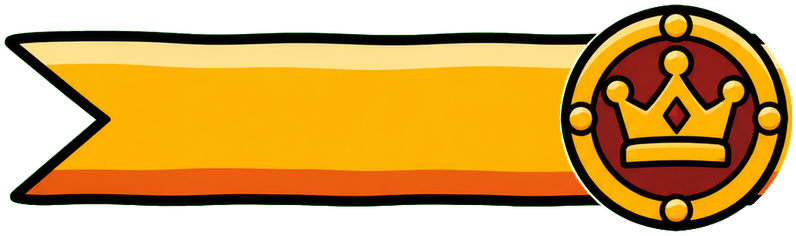
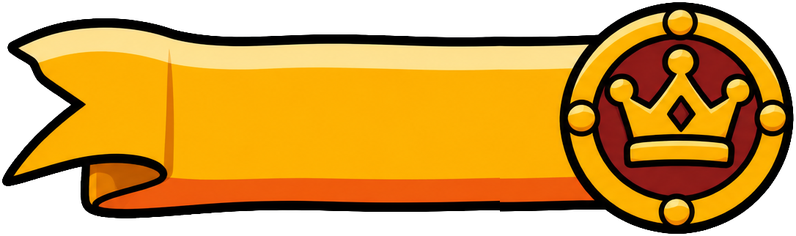
Porta EVENTI: il nastro con la piega di WB-061 (scelta di Sergio)
Claude-Session: https://claude.ai/code/session_01XmXLjiNihwB2y1ZDWEmFHY

Changed region(s): [[0.0, 0.0, 1.0, 1.0]]

diff --git a/tools/grafica/fucina.py b/tools/grafica/fucina.py
@@ -311,7 +311,9 @@ MENU_INTERI = [
     # la home: le porte (WB-046, a destra lo scudo verso il bordo), GIOCA, pedana e zainetto
     ("porta_campagna", "porta_campagna", 236, "WB-046"),
     ("porta_allenamento", "porta_allenamento", 226, "WB-046"),
-    ("porta_eventi", "porta_eventi_dx", 236, "WB-046"),
+    # lo striscione EVENTI: il nastro con la piega di WB-061 (Sergio, 15 nov; fra tre
+    # idee), accorciato nel mezzo liscio per avere l'ingombro di quello di WB-046
+    ("porta_eventi", "porta_eventi_piega", 236, "WB-061"),
     ("porta_armeria", "porta_armeria_dx", 226, "WB-046"),
     ("gioca_sigillo", "gioca_sigillo", 166, "WB-046"),
     ("pedana", "pedana_griglia_1", 266, "WB-050"),
@@ -351,7 +353,7 @@ MENU_INTERI = [
 SPAZI_MISURATI = {
     "porta_campagna": (240, 50, 189, 51),
     "porta_allenamento": (225, 44, 166, 37),
-    "porta_eventi": (110, 36, 236, 50),
+    "porta_eventi": (185, 52, 236, 58),
     "porta_armeria": (120, 50, 225, 56),
     "gioca_sigillo": (180, 28, 149, 48),
 }
@@ -446,26 +448,14 @@ def fai_segni():
         intero(nome, a, 96)
 
 
-# lo spazio per scrivere sulle tre idee dello striscione EVENTI (WB-061), misurato a occhio
-SPAZI_EVENTI = {"piega": (185, 52, 236, 58), "frange": (190, 50, 244, 57), "pennone": (220, 55, 236, 60)}
-
-
 def ritaglio(cartella, nome):
     return np.array(Image.open(os.path.join(ART, cartella, "ritagli", nome + ".png")).convert("RGBA"))
 
 
 def fai_menu():
-    # lo striscione EVENTI: quello di WB-046 finche' Sergio non sceglie fra le tre idee
-    # di WB-061 (PORTA_EVENTI=piega, frange o pennone per montarne una; i ritagli sono
-    # accorciati nel mezzo liscio per avere l'ingombro di quello di oggi)
-    idea = os.environ.get("PORTA_EVENTI", "")
     for nome, f, h, d in MENU_INTERI:
-        if nome == "porta_eventi" and idea:
-            f, d = "porta_eventi_" + idea, "WB-061"
         intero(nome, ritaglio(d, f), h)
-        if nome == "porta_eventi" and idea:
-            SPAZI[nome] = SPAZI_EVENTI[idea]
-        elif nome in SPAZI_MISURATI:
+        if nome in SPAZI_MISURATI:
             SPAZI[nome] = SPAZI_MISURATI[nome]
     for nome, f, h, c, d in MENU_TRE:
         tre(nome, ritaglio(d, f), h, c)

diff --git a/docs/handoff/WB-061_striscione_eventi_e_segni.md b/docs/handoff/WB-061_striscione_eventi_e_segni.md
@@ -135,8 +135,7 @@ differisce da #00FF00 nei punti campionati. Conservati i PNG originali.
 15 nov. Guardati i quattro fogli: nessun difetto da scartare. Segni: tenuto il foglio 1
 (piatto, senza il riflesso bianco), `segno_sale`, `segno_scende` e `segno_uguale` nell'atlante;
 i primi due hanno preso il posto della freccia girata nelle statistiche, tinti come il numero.
-Striscione: dal foglio 1 i tre ritagli in `art/WB-061/ritagli/` (piega, frange, pennone),
-accorciati nel mezzo liscio per avere l'ingombro dello striscione di oggi (Codex li ha fatti
-più lunghi). Nel gioco resta quello di WB-046 finché Sergio non sceglie:
-`PORTA_EVENTI=piega python3 tools/grafica/fucina.py` ne monta uno. Le tre idee montate nella
-home sono in `/mnt/project-files/estetica_15nov/striscione_eventi_tre_idee.jpg`.
+Striscione: Sergio ha scelto la 1, il nastro con la piega (15 nov, fra le tre montate
+nella home). Il ritaglio `art/WB-061/ritagli/porta_eventi_piega.png` viene dal foglio 1,
+accorciato nel mezzo liscio per avere l'ingombro dello striscione di WB-046 (Codex l'aveva
+fatto più lungo); è la porta EVENTI della home. Frange e pennone restano nei fogli.

diff --git a/docs/decisioni/cronologia.md b/docs/decisioni/cronologia.md
@@ -281,3 +281,4 @@ Un rigo per giorno e per PR. I dettagli stanno nei file delle aree.
 | 15 nov | Sergio: valutazione estetica dei menu, poi «la 1 e la 3». Testi minimo a 16 in tutti i menu, pannello dietro le statistiche con frecce e colori per chi sale e chi scende, impostazioni su una griglia. Schede WB-060 (schede di GIOCA ONLINE) e WB-061 (striscione EVENTI, segni). | questa PR |
 | 15 nov | Sergio: le statistiche tutte in una schermata (scartate le due pagine: sedici righe da 16 nella stessa colonna); chi peggiora è rosso, non azzurro («troppo controintuitivo»), anche negli effetti dei pezzi in Armeria; lo zainetto della home più piccolo, dentro il suo gradino (scartato lo zainetto più grande). | interfaccia.md, questa PR |
 | 15 nov | Consegne di Codex WB-060 e WB-061: le schede brace, ferro, gelo e spenta montate in GIOCA ONLINE; i segni sale e scende nelle statistiche; tre idee dello striscione EVENTI ritagliate, la scelta è di Sergio. | questa PR |
+| 15 nov | Sergio: lo striscione della porta EVENTI è il nastro con la piega (WB-061, idea 1 di tre); scartati lo stendardo con le frange e il pennone. | questa PR |
